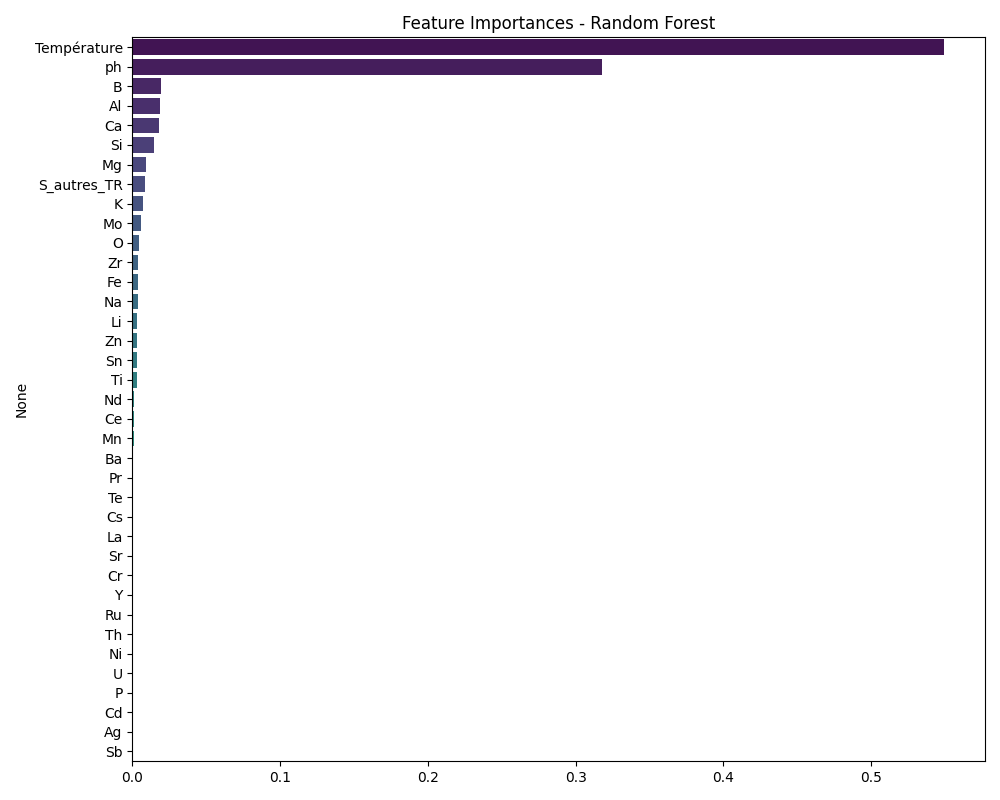
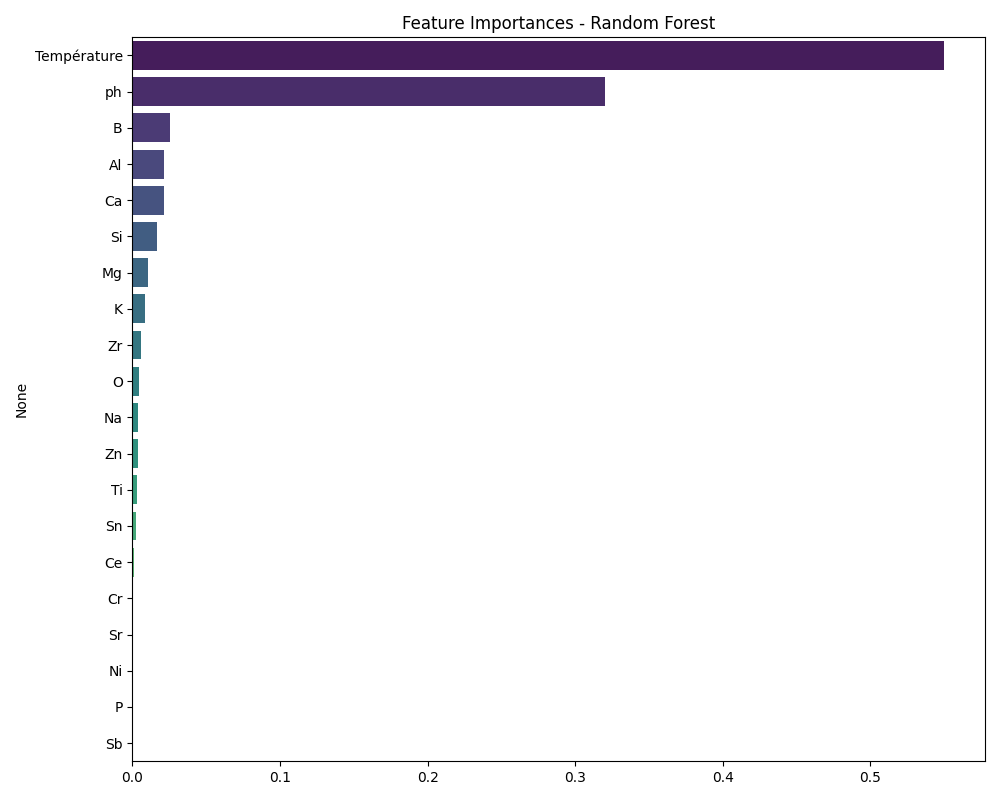
adding some information about data before transformation

Changed region(s): [[0.031, 0.0312, 0.961, 0.8438], [0.093, 0.875, 0.124, 0.9375], [0.558, 0.9688, 0.589, 1.0]]

diff --git a/Models /05.Random Forest Regressor/random_forest_regressor.py b/Models /05.Random Forest Regressor/random_forest_regressor.py
@@ -10,7 +10,7 @@ from sklearn.ensemble import RandomForestRegressor
 from sklearn.metrics import r2_score, mean_absolute_error, mean_squared_error
 
 # Load your dataset
-data = pd.read_csv("/home/intra.cea.fr/ao280403/Bureau/ML Model/Data/Data B Ph LnV0.csv")  # Replace with your file
+data = pd.read_csv("/home/intra.cea.fr/ao280403/Bureau/ML Model/Data/Data B Ph LnV0 with less param.csv")  # Replace with your file
 
 # Split features and target
 X = data.drop("Ln(V0)", axis=1)  # Replace "target" with your actual target column name

diff --git a/Models /08.XGBOOST/xgboost_regressor.py b/Models /08.XGBOOST/xgboost_regressor.py
@@ -9,7 +9,7 @@ import seaborn as sns
 # Load your dataset here
 # Replace this with your actual dataset loading code
 # Example: data = pd.read_csv('your_data.csv')
-data = pd.read_csv('/home/intra.cea.fr/ao280403/Bureau/ML Model/Data/Data B Ph LnV0.csv')
+data = pd.read_csv('/home/intra.cea.fr/ao280403/Bureau/ML Model/Data/Data B Ph V0.csv')
 
 # Define features and target
 X = data.drop(columns=['Ln(V0)'])  # Replace 'target_column' with your target column name

diff --git a/Data_Visualization/Data.py b/Data_Visualization/Data.py
@@ -1,0 +1,14 @@
+import pandas as pd
+
+# Load the data from a CSV file
+file_path = '/home/intra.cea.fr/ao280403/Bureau/ML Model/Data/Data B Ph V0.csv'  # Replace with the path to your CSV file
+df = pd.read_csv(file_path)
+
+# Set pandas display options to show all columns
+pd.set_option('display.max_columns', None)
+
+# Compute statistics
+description = df.describe()
+
+# Print the statistics to the terminal
+print(description)
